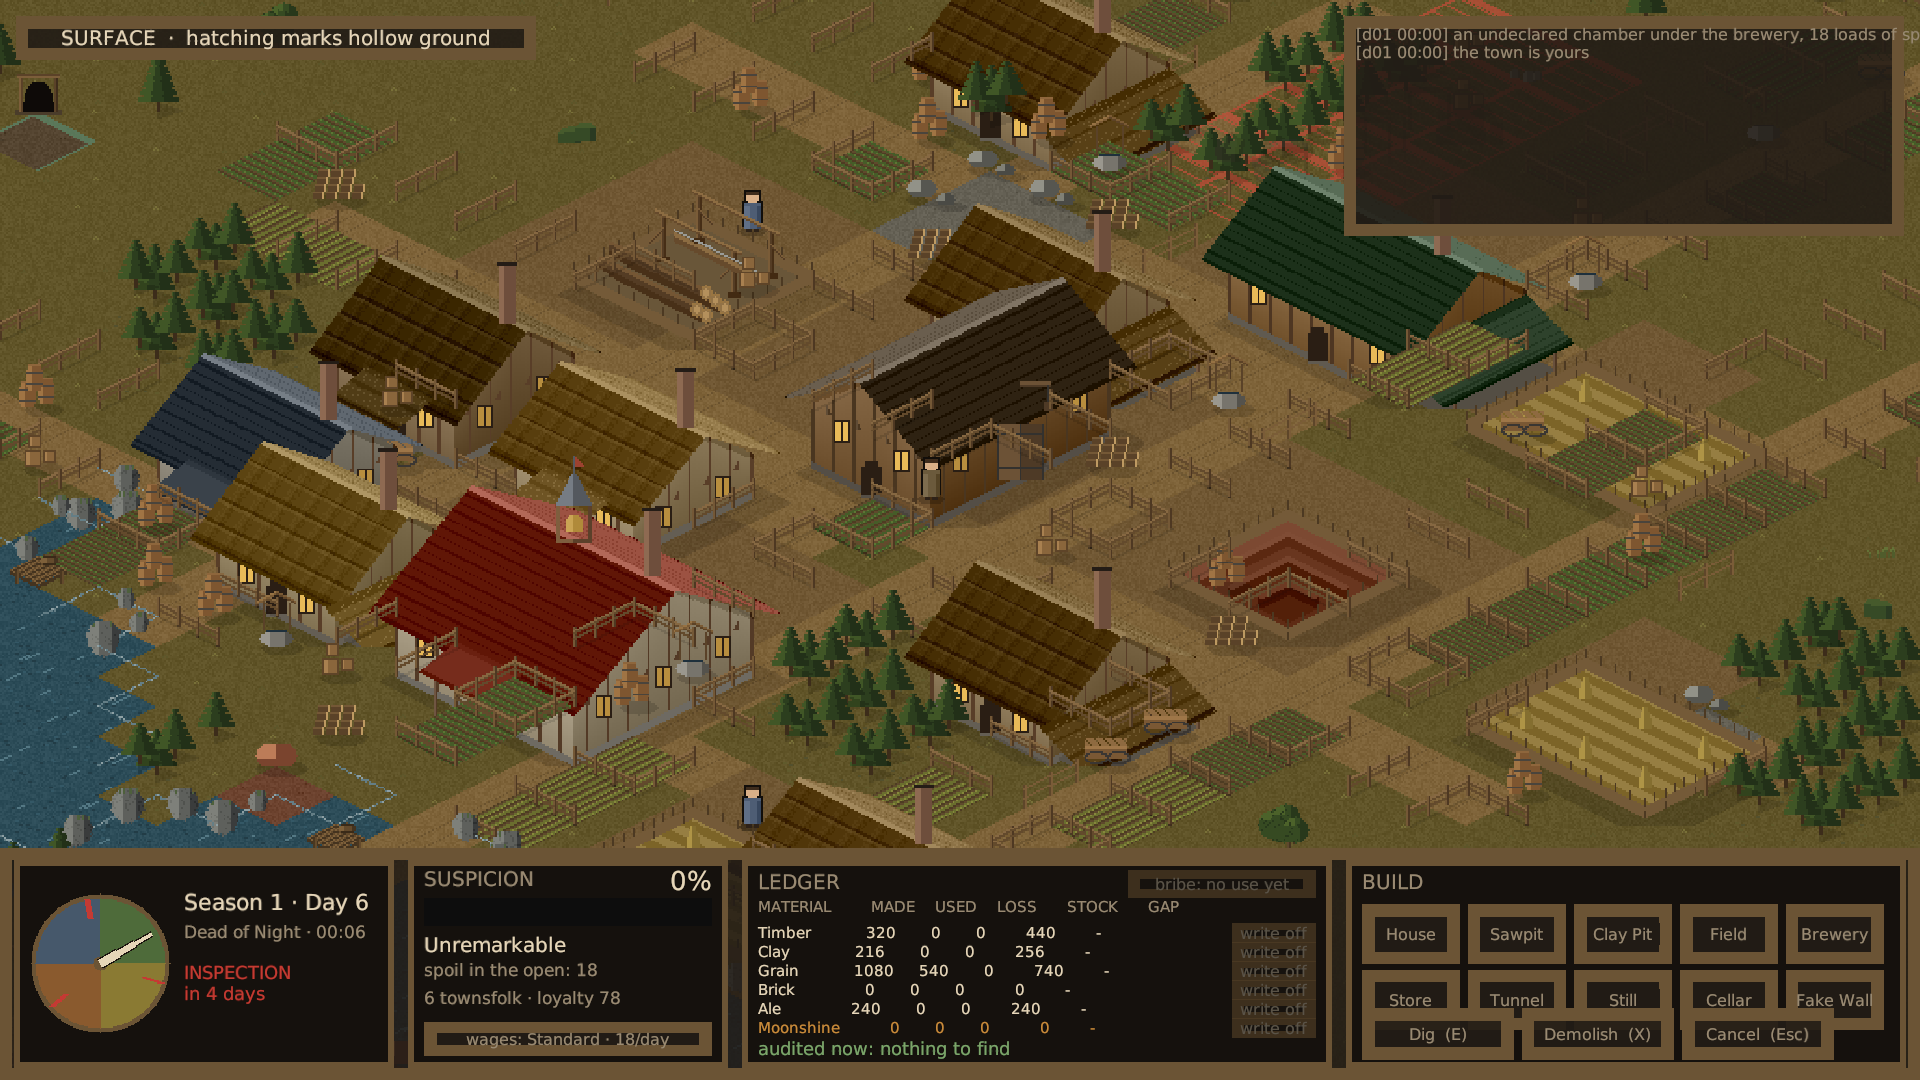
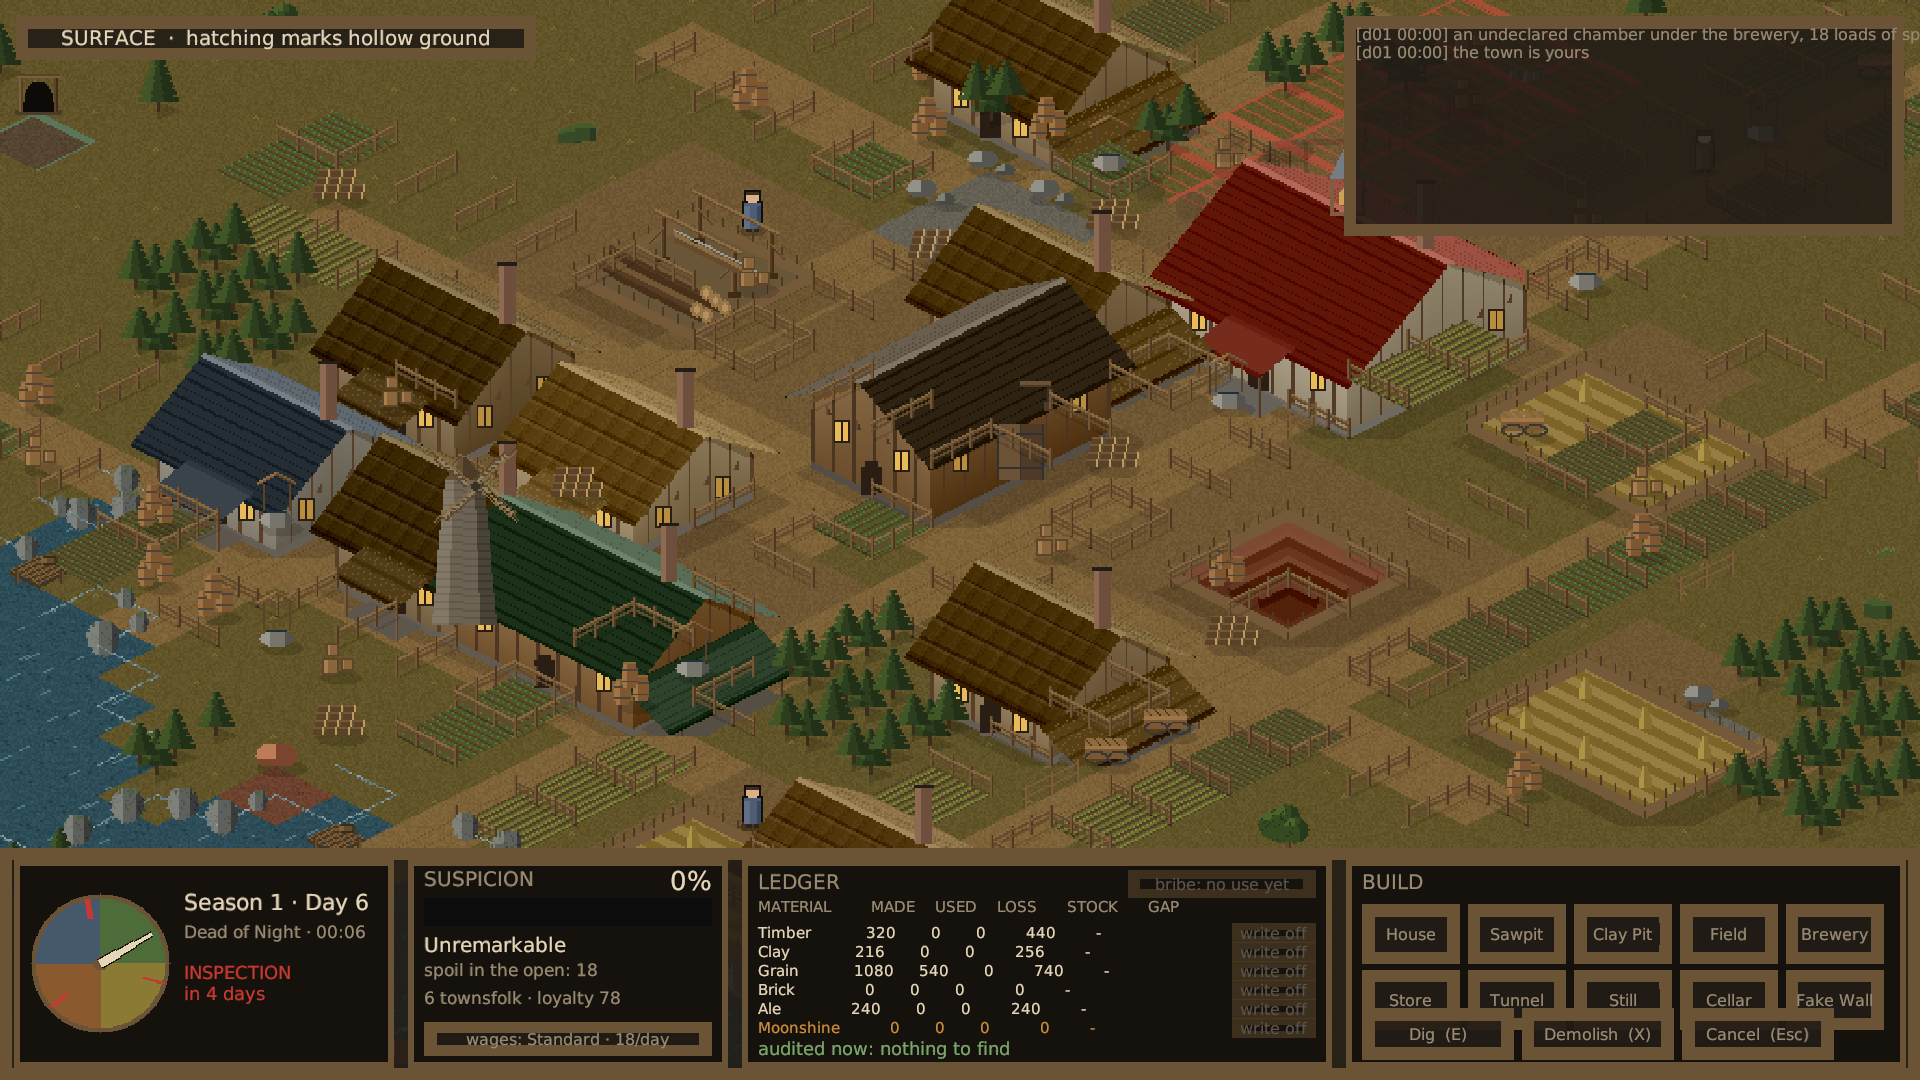
art: a mill tower on the brewery
The reference has a windmill and a watermill, both taller than anything near
them and neither shaped like a house. The tallest thing here was the town hall's
bell turret, and a settlement whose skyline is all roof ridges reads as one
building type repeated.

A mill is also the only landmark this town can have without inventing a trade
for it: the brewery already needs its malt ground. Nothing about it is
simulated - the recipe, the cost and the output are untouched, and this is the
same building wearing what it does on the outside.

The tower batters inwards as it rises, which is what tells it from a chimney,
and stands clear of the west gable rather than on the roof, since a tower
starting at ridge height is a turret. Sails are set as a saltire: upright and
level arms make a cross that reads as scaffolding, and a mill at rest is nearly
always left on the diagonal anyway.

The brewery and the town hall swap ends of the civic row. The east end projects
to the top-right corner of the screen, straight behind the minimap, and the mill
went through it; the bell turret is short enough to sit there. Both are the same
distance from the warehouse either way.

85 tests pass.

Changed region(s): [[0.0938, 0.3972, 0.4062, 0.7028], [0.5938, 0.0611, 0.8125, 0.3972], [0.4688, 0.4278, 0.5, 0.4583]]

diff --git a/Undertown/Assets/Scripts/Game/Presentation/IsoBuildingArt.cs b/Undertown/Assets/Scripts/Game/Presentation/IsoBuildingArt.cs
@@ -41,6 +41,9 @@ namespace Undertown.Game.Presentation
             public int Pitch;
 
             public bool Thatch;
+
+            /// <summary>A mill tower and sails standing off one gable.</summary>
+            public bool Mill;
             public bool HalfTimbered;
             public bool Chimney;
 
@@ -79,9 +82,10 @@ namespace Undertown.Game.Presentation
 
             // Enough room for the eaves, and for an outshot standing clear of the east wall.
             int marginX = Mathf.CeilToInt(Overhang * Iso.TileWidth) + (scheme.LeanTo || scheme.Porch ? 30 : 4);
+            if (scheme.Mill) marginX = Mathf.Max(marginX, 44);
             int footW = Iso.FootprintWidth(cw, ch) + marginX * 2;
             int footH = Iso.FootprintHeight(cw, ch);
-            int total = footH + scheme.WallHeight + peak + marginX + 12;
+            int total = footH + scheme.WallHeight + peak + marginX + 12 + (scheme.Mill ? 96 : 0);
 
             var px = Blank(footW, total);
             int ox = ch * Iso.HalfWidth + marginX;
@@ -123,6 +127,8 @@ namespace Undertown.Game.Presentation
                 case BuildingKind.TownHall: BellTower(px, w, h, cw, ch, ox, oy, scheme, peak); break;
                 case BuildingKind.Warehouse: LoadingDoor(px, w, h, cw, ch, ox, oy, scheme, peak); break;
             }
+
+            if (scheme.Mill) MillTower(px, w, h, cw, ch, ox, oy, scheme);
         }
 
         /// <summary>
@@ -471,6 +477,97 @@ namespace Undertown.Game.Presentation
         /// A bell turret on the hall's ridge. The town needs one thing taller than its roofs,
         /// or the eye has nowhere to land and the settlement reads as an even field of sheds.
         /// </summary>
+        /// <summary>
+        /// A mill tower with sails, standing off the brewery's west gable.
+        ///
+        /// The reference has a windmill and a watermill, both taller than anything around them
+        /// and neither shaped like a house; the tallest thing here was the town hall's bell
+        /// turret, and a settlement whose skyline is all roof ridges reads as one building type
+        /// repeated. A mill is also the one landmark this town can have without inventing a
+        /// trade for it - the brewery already needs its malt ground.
+        ///
+        /// Nothing about it is simulated. The brewery's recipe, cost and output are untouched;
+        /// this is the same building wearing what it does on the outside.
+        /// </summary>
+        private static void MillTower(Color32[] px, int w, int h, int cw, int ch, int ox, int oy,
+            Scheme scheme)
+        {
+            var stone = C(0x6C, 0x63, 0x54);
+            var stoneLit = C(0x82, 0x79, 0x68);
+            var stoneDark = C(0x4A, 0x43, 0x38);
+            var cap = C(0x4A, 0x3A, 0x26);
+            var capLit = C(0x64, 0x50, 0x34);
+            var sail = C(0x5E, 0x46, 0x2A);
+            var sailLit = C(0x86, 0x68, 0x40);
+            var cloth = C(0x8A, 0x80, 0x66);
+
+            // Standing clear of the west gable rather than on the roof: a tower that starts
+            // at ridge height is a turret, and the point of a mill is that it is taller than
+            // the buildings around it.
+            var c = Iso.Project(-0.24f, ch * 0.80f, ox, oy);
+            const int height = 78;
+
+            // The tower batters inwards as it rises, which is what tells it from a chimney.
+            for (int lift = 0; lift < height; lift++)
+            {
+                float t = lift / (float)height;
+                int half = Mathf.RoundToInt(Mathf.Lerp(17f, 10f, t));
+
+                for (int dx = -half; dx <= half; dx++)
+                {
+                    var tone = dx < -half / 2 ? stoneLit : dx > half / 2 ? stoneDark : stone;
+
+                    // Courses, broken so they do not rule straight across the curve.
+                    if ((lift + (dx < 0 ? 0 : 1)) % 4 == 0) tone = Darken(tone, 12);
+                    Plot(px, w, h, c.x + dx, c.y + 2 + lift, tone);
+                }
+            }
+
+            for (int lift = 0; lift < 12; lift++)
+            {
+                int half = Mathf.RoundToInt(Mathf.Lerp(10f, 1f, lift / 11f));
+                for (int dx = -half; dx <= half; dx++)
+                    Plot(px, w, h, c.x + dx, c.y + 2 + height + lift, dx < 0 ? capLit : cap);
+            }
+
+            // Four sails on a shaft standing out from the cap, set as a saltire: upright and
+            // level arms make a cross that reads as scaffolding, and a mill at rest is nearly
+            // always left with its sails on the diagonal anyway.
+            int hubX = c.x + 6;
+            int hubY = c.y + height - 2;
+            const int arm = 31;
+
+            for (int blade = 0; blade < 4; blade++)
+            {
+                float angle = (45f + blade * 90f) * Mathf.Deg2Rad;
+                float dirX = Mathf.Cos(angle);
+                float dirY = Mathf.Sin(angle) * 0.86f;
+
+                for (int t = 3; t <= arm; t++)
+                {
+                    int bx = hubX + Mathf.RoundToInt(dirX * t);
+                    int by = hubY + Mathf.RoundToInt(dirY * t);
+
+                    Plot(px, w, h, bx, by, sailLit);
+
+                    // Whip and lattice: bars across the frame every third step, plus the cloth
+                    // laid over the trailing half of each sail.
+                    int span = t < arm - 3 ? 3 : 1;
+                    for (int k = 1; k <= span; k++)
+                    {
+                        int lx = bx + Mathf.RoundToInt(-dirY * k * 1.6f);
+                        int ly = by + Mathf.RoundToInt(dirX * k * 0.9f);
+                        bool bar = t % 3 == 0;
+                        Plot(px, w, h, lx, ly, bar ? sail : k == span ? sail : cloth);
+                    }
+                }
+            }
+
+            for (int dy = -2; dy <= 2; dy++)
+            for (int dx = -2; dx <= 2; dx++)
+                if (dx * dx + dy * dy <= 5) Plot(px, w, h, hubX + dx, hubY + dy, C(0x38, 0x30, 0x24));
+        }
+
         private static void BellTower(Color32[] px, int w, int h, int cw, int ch, int ox, int oy,
             Scheme scheme, int peak)
         {
@@ -1088,7 +1185,7 @@ namespace Undertown.Game.Presentation
                         Wall = C(0x80, 0x60, 0x3A), Roof = C(0x3E, 0x52, 0x3C),
                         Timber = C(0x4E, 0x36, 0x22), Plinth = C(0x60, 0x5A, 0x50),
                         WallHeight = 32, Pitch = 14, HalfTimbered = true, Chimney = true,
-                        LeanTo = true,
+                        LeanTo = true, Mill = true,
                     };
                 case BuildingKind.Still:
                     return new Scheme

diff --git a/Undertown/Assets/Scripts/Core/Sim/TownFounder.cs b/Undertown/Assets/Scripts/Core/Sim/TownFounder.cs
@@ -47,9 +47,16 @@ namespace Undertown.Core.Sim
             // The civic block, north of the street, set back a cell so there is a yard between
             // each frontage and the fence along the lane. Built hard against the fence line the
             // rails cut across the bottom of every wall, and the town reads as a stockade.
-            PlaceNear(town, BuildingKind.TownHall, cx - 6, roadY + 2);
+            //
+            // The brewery is at the west end and the town hall at the east, rather than the
+            // other way round. The brewery carries the mill tower, which is the tallest thing
+            // in the settlement, and the east end of the civic row projects to the top-right
+            // corner of the screen - straight behind the minimap. The bell turret is short
+            // enough to sit there. The two swap places on screen only; they are the same
+            // distance from the warehouse either way.
+            PlaceNear(town, BuildingKind.Brewery, cx - 6, roadY + 2);
             PlaceNear(town, BuildingKind.Warehouse, cx + 1, roadY + 2);
-            PlaceNear(town, BuildingKind.Brewery, cx + 7, roadY + 2);
+            PlaceNear(town, BuildingKind.TownHall, cx + 7, roadY + 2);
 
             // Dwellings behind it, off the lane, packed close the way a village is.
             PlaceNear(town, BuildingKind.House, cx - 6, roadY + 4);

diff --git a/docs/visual-progress.md b/docs/visual-progress.md
@@ -48,7 +48,17 @@ v018 把地块和色调修到位之后，两张图的差距集中到了三件事
 
 栈桥是**挑出来的，不是撒出来的**。按十一分之一的概率在河岸上撒，取景之内一个也没落到：河道一旦开始摆动，恰好只有一侧临陆的格子就只占河岸的一小部分，而一个可能存在也可能不存在的特征不算特征。现在取距镇子最近的两处合格河岸，彼此相隔六格。单侧临陆这个条件把它们挡在河湾和沙嘴之外——建在河湾里的栈桥有半个台面埋在岸里。
 
-### 五、视距
+### 五、磨坊塔
+
+参照物有风车和水车，两者都比周围任何东西高，形状也都不是房子。这里最高的一直是镇政厅的钟楼小塔，而一座天际线全是屋脊的聚落，读起来就是一种建筑重复了很多遍。
+
+磨坊也是这个镇子唯一不需要为它编一门生意的地标——酒坊本来就得磨麦芽。塔立在酒坊西山墙外，收分向上（这一点把它和烟囱区分开），锥形帽顶，四片叶按斜十字装（正十字读作脚手架，而停转的磨坊本来也多半把叶片停在对角位）。
+
+模拟层没有任何改动。酒坊的配方、造价、产出全都照旧，只是同一栋建筑把它做的事写在了外面。
+
+酒坊和镇政厅在开局布局里对调了。civic 那一排的东端投影到屏幕右上角，正好在小地图后面，塔立起来就顶进去了；钟楼矮，放得下。两者到仓库的距离一样，只是屏幕位置换了。
+
+### 六、视距
 
 把聚落刚好装进画幅（哪怕带裁切），1920 像素宽的画面里横着约三十格；参照物里接近二十格，而这个差别正是它的建筑显得厚实、我们的看起来像桌上模型的主要原因。现在镇子在东西两侧跑出画外——参照物也是这样，它是一处地方的一个视角，不是这处地方的全身像。
 
@@ -60,13 +70,12 @@ v018 把地块和色调修到位之后，两张图的差距集中到了三件事
 
 ### 色调
 
-画面均值从 (96, 85, 44) 降到 (91, 78, 42)，目标是 (75, 64, 37)。这一轮压的是巷子、院子和作物——它们合起来占的面积比建筑还大，而巷子当时在 (150, 118, 70)，参照物的巷子接近 `#69521d`。草地同时把红绿分开了：参照物采样的草在 `#5f5218` 到 `#785c2e` 之间，红高于绿，我们原本接近中性。
+画面均值从 (96, 85, 44) 降到 (92, 76, 43)，目标是 (75, 64, 37)。这一轮压的是巷子、院子和作物——它们合起来占的面积比建筑还大，而巷子当时在 (150, 118, 70)，参照物的巷子接近 `#69521d`。草地同时把红绿分开了：参照物采样的草在 `#5f5218` 到 `#785c2e` 之间，红高于绿，我们原本接近中性。
 
 ### 仍未追平的差距
 
 - **地形起伏**。参照物有高差、护坡、石砌水岸。当前地面完全是平的；这需要给地图加高程，是模拟层的改动。黏土坑的台阶是第一次在这张图上出现真实高差，但它是画出来的，不是地形。
-- **建筑平面**。有了偏厦、门廊、八种农舍变体和两种非茅草屋顶，但主体仍是矩形。
-- **风车与水车**。参照物有这两个高耸独特的地标。当前最高的仍是镇政厅的钟楼，加磨坊要动经济链（粮到面粉），属于模拟层改动。
+- **建筑平面**。有了偏厦、门廊、八种农舍变体、两种非茅草屋顶和一座磨坊塔，但主体仍是矩形。参照物里几乎没有两栋建筑是同一个平面。
 - **人的数量**。参照物里同屏十几个人在干活。这里只有六个村民，而人口直接进经济账，不能为了画面加人。
 - **镇子在画幅里的占比**（已基本解决）。等距投影下任何矩形格子区域的屏幕宽高比恒为 2:1，与该区域自身长宽比无关，所以「刚好装下」时 16:9 画幅两侧必然留白。允许东西两侧跑出画外之后这个约束不再决定构图，代价是玩家需要滚动才能看到镇子边缘。
 
